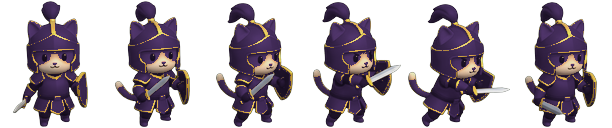
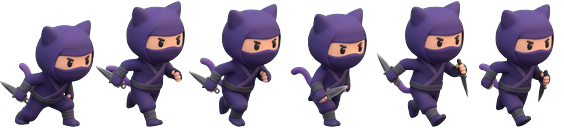
New ninja cat and steel tank cat sprites
Claude-Session: https://claude.ai/code/session_01ENEEn7eQs4U1AEoLoCr1A5

diff --git a/web/index.html b/web/index.html
@@ -295,10 +295,10 @@ function parseGate(t) { return { op: t[0] === 'x' ? 'x' : t[0], v: Number(t.slic
 
 // ---------- Images ----------
 const IMG = {};
-['duck_run', 'duck_shoot', 'duck_die', 'cat', 'boss', 'duck_shoot_front', 'cat_back', 'duckhouse', 'platform', 'boss_walk', 'boss_walk_back', 'boss_attack', 'boss_die', 'duck_cannon', 'duck_xbow', 'grass', 'fence_picket1', 'fence_picket2', 'fence_picket4', 'fence_stump', 'fence_plank', 'fence_seg', 'duck_cannon_front', 'cat_ninja', 'cat_ninja_back', 'cat_tank', 'cat_tank_back', 'plus1', 'barrier', 'gate_blue', 'gate_red', 'castle', 'floor'].forEach(n => {
+['duck_run', 'duck_shoot', 'duck_die', 'cat', 'boss', 'duck_shoot_front', 'cat_back', 'duckhouse', 'platform', 'boss_walk', 'boss_walk_back', 'boss_attack', 'boss_die', 'duck_cannon', 'duck_xbow', 'grass', 'fence_picket1', 'fence_picket2', 'fence_picket4', 'fence_stump', 'fence_plank', 'fence_seg', 'duck_cannon_front', 'cat_ninja', 'cat_tank', 'plus1', 'barrier', 'gate_blue', 'gate_red', 'castle', 'floor'].forEach(n => {
   const i = new Image(); i.src = 'img/' + n + (n === 'floor' || n === 'grass' || n.startsWith('story') ? '.jpg' : '.png'); IMG[n] = i;
 });
-const FRAMES = { duck_run: 6, duck_shoot: 4, duck_die: 3, cat: 6, duck_sleep: 2, duck_cook: 4, duck_hammer: 4, duck_idle: 4, duck_walk_back: 6, duck_walk_front: 6, duck_shoot_front: 4, cat_back: 6, boss_walk: 6, boss_walk_back: 6, boss_attack: 4, boss_die: 3, duck_cannon: 4, duck_xbow: 4, duck_cannon_front: 4, cat_ninja: 6, cat_ninja_back: 6, cat_tank: 6, cat_tank_back: 6 };
+const FRAMES = { duck_run: 6, duck_shoot: 4, duck_die: 3, cat: 6, duck_sleep: 2, duck_cook: 4, duck_hammer: 4, duck_idle: 4, duck_walk_back: 6, duck_walk_front: 6, duck_shoot_front: 4, cat_back: 6, boss_walk: 6, boss_walk_back: 6, boss_attack: 4, boss_die: 3, duck_cannon: 4, duck_xbow: 4, duck_cannon_front: 4, cat_ninja: 6, cat_tank: 6 };
 function ready(i) { return i && i.complete && i.naturalWidth > 0; }
 // draw an image so its bottom-centre sits at (x, y) with the given width
 function drawAt(img, x, y, w) {
